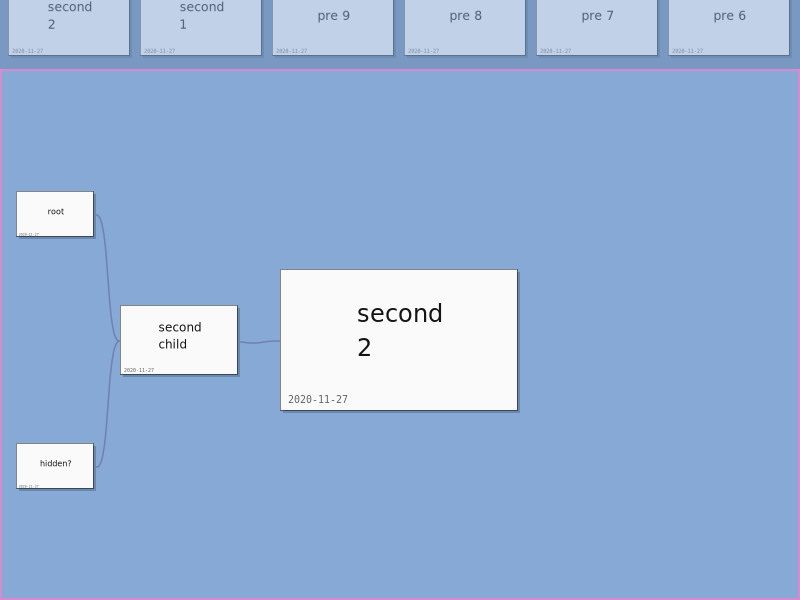
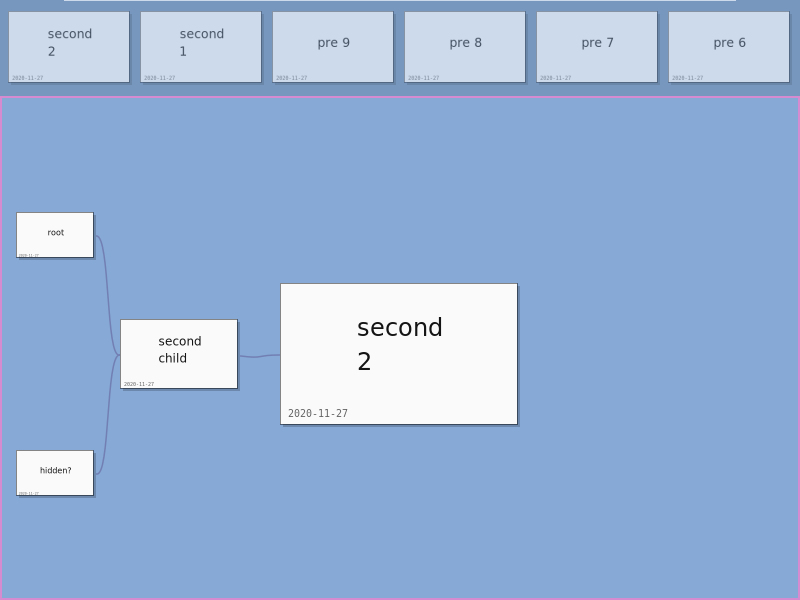
Height of the current frame should be used when drawing.

diff --git a/test_smartnotes.py b/test_smartnotes.py
@@ -68,10 +68,6 @@ class GuiDriver(object):
             elapsed_ms -= elapsed_ms_per_frame
             self.widget.update(pygame.Rect(0, 0, 800, 600), elapsed_ms_per_frame)
             self.widget.draw(self.canvas)
-        self.widget.update(pygame.Rect(0, 0, 800, 600), 0)
-        self.widget.draw(self.canvas)
-        self.widget.update(pygame.Rect(0, 0, 800, 600), 0)
-        self.widget.draw(self.canvas)
 
     def write_to_png(self, path):
         self.cairo_surface.write_to_png(path)
@@ -101,13 +97,13 @@ class SmartNotesEndToEndTests(unittest.TestCase):
             )
 
     def test_main_screen(self):
-        self.driver.iteration(elapsed_ms=300)
+        self.driver.iteration(elapsed_ms=301)
         self.assert_drawn_image_is("main_screen.png")
 
     def test_search_bar(self):
         self.driver.iteration(events=[KeyEvent("/")], elapsed_ms=100)
         self.assert_drawn_image_is("search_bar_half_way.png")
-        self.driver.iteration(elapsed_ms=100)
+        self.driver.iteration(elapsed_ms=121)
         self.assert_drawn_image_is("search_bar_animation_completed.png")
         self.driver.iteration(events=[KeyEvent("ctrl+g")], elapsed_ms=100)
         self.assert_drawn_image_is("search_bar_half_way_hide.png")

diff --git a/smartnotes.py b/smartnotes.py
@@ -688,6 +688,7 @@ class SearchBar(VBox):
         VBox.update(self, self.ideal_rect, elapsed_ms)
         self.ideal_height = self.SEARCH_FIELD_HEIHGT + self.VPADDING + self.search_results.wanted_height
         percent = self.animation.advance(elapsed_ms)
+        self.update_height = self.get_height()
         if Widget.is_visible(self):
             self.alpha = int(255 * percent)
             self.resize(height=int(self.ideal_height * percent))
@@ -698,7 +699,7 @@ class SearchBar(VBox):
     def draw(self, canvas):
         canvas.blit(
             canvas.create_image(self.ideal_rect.size, self._draw_search_bar_image),
-            (0, -self.ideal_height+self.get_height()),
+            (0, -self.ideal_height+self.update_height),
             alpha=self.alpha
         )
 
